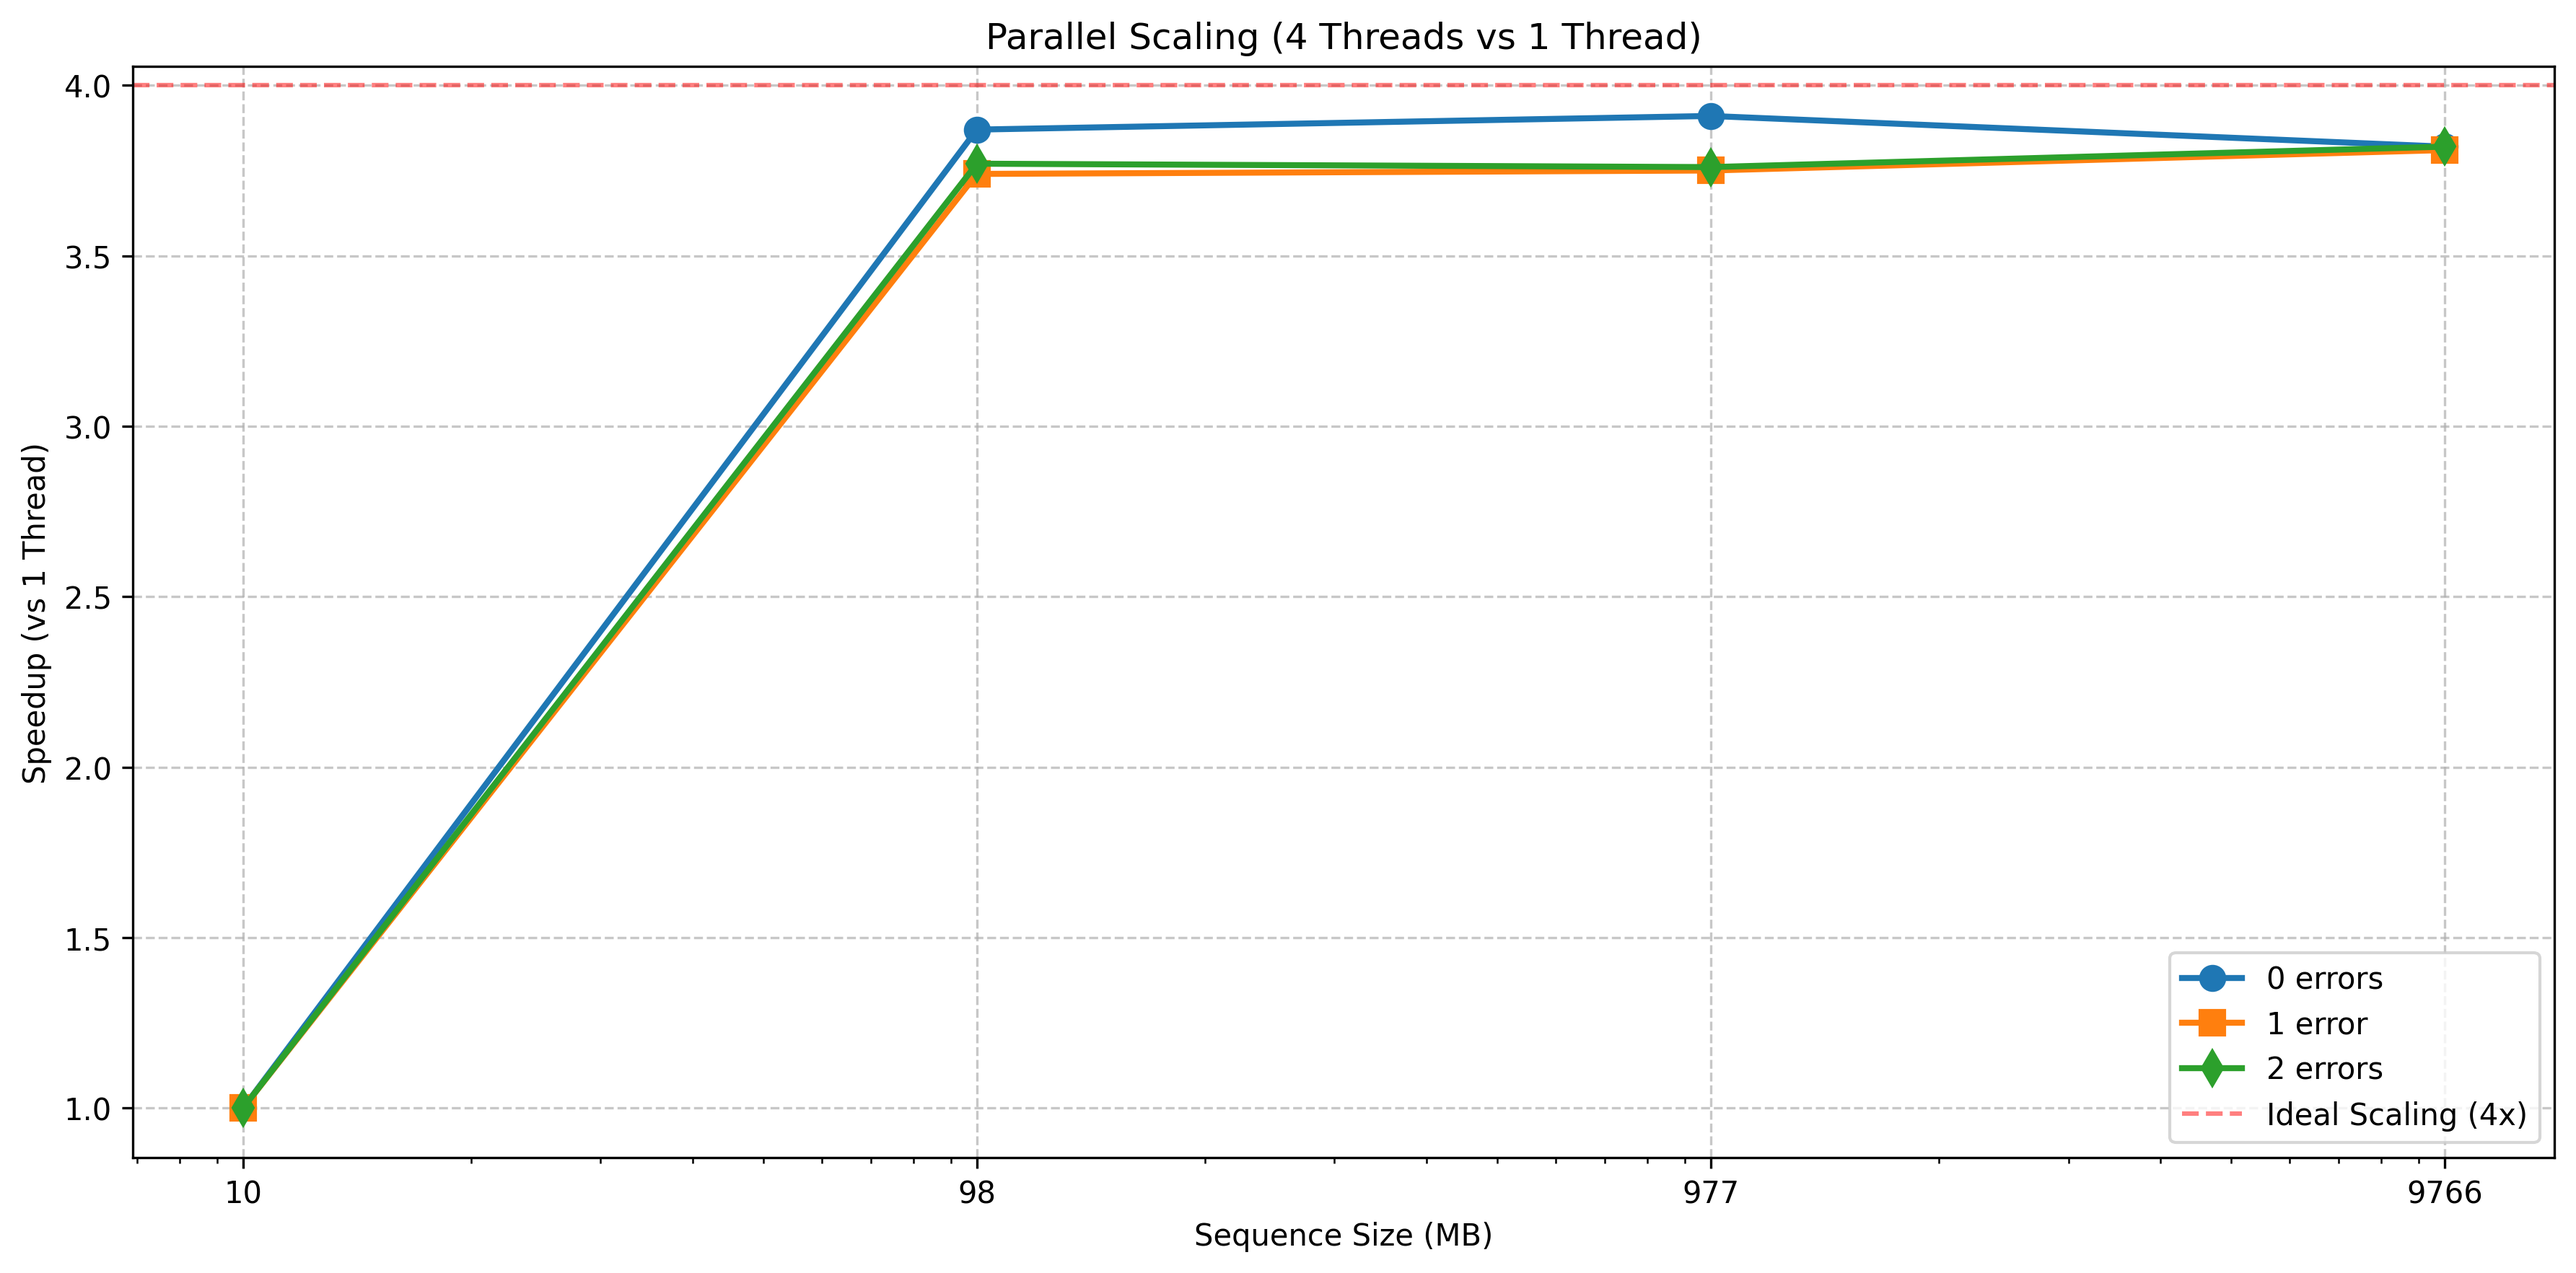
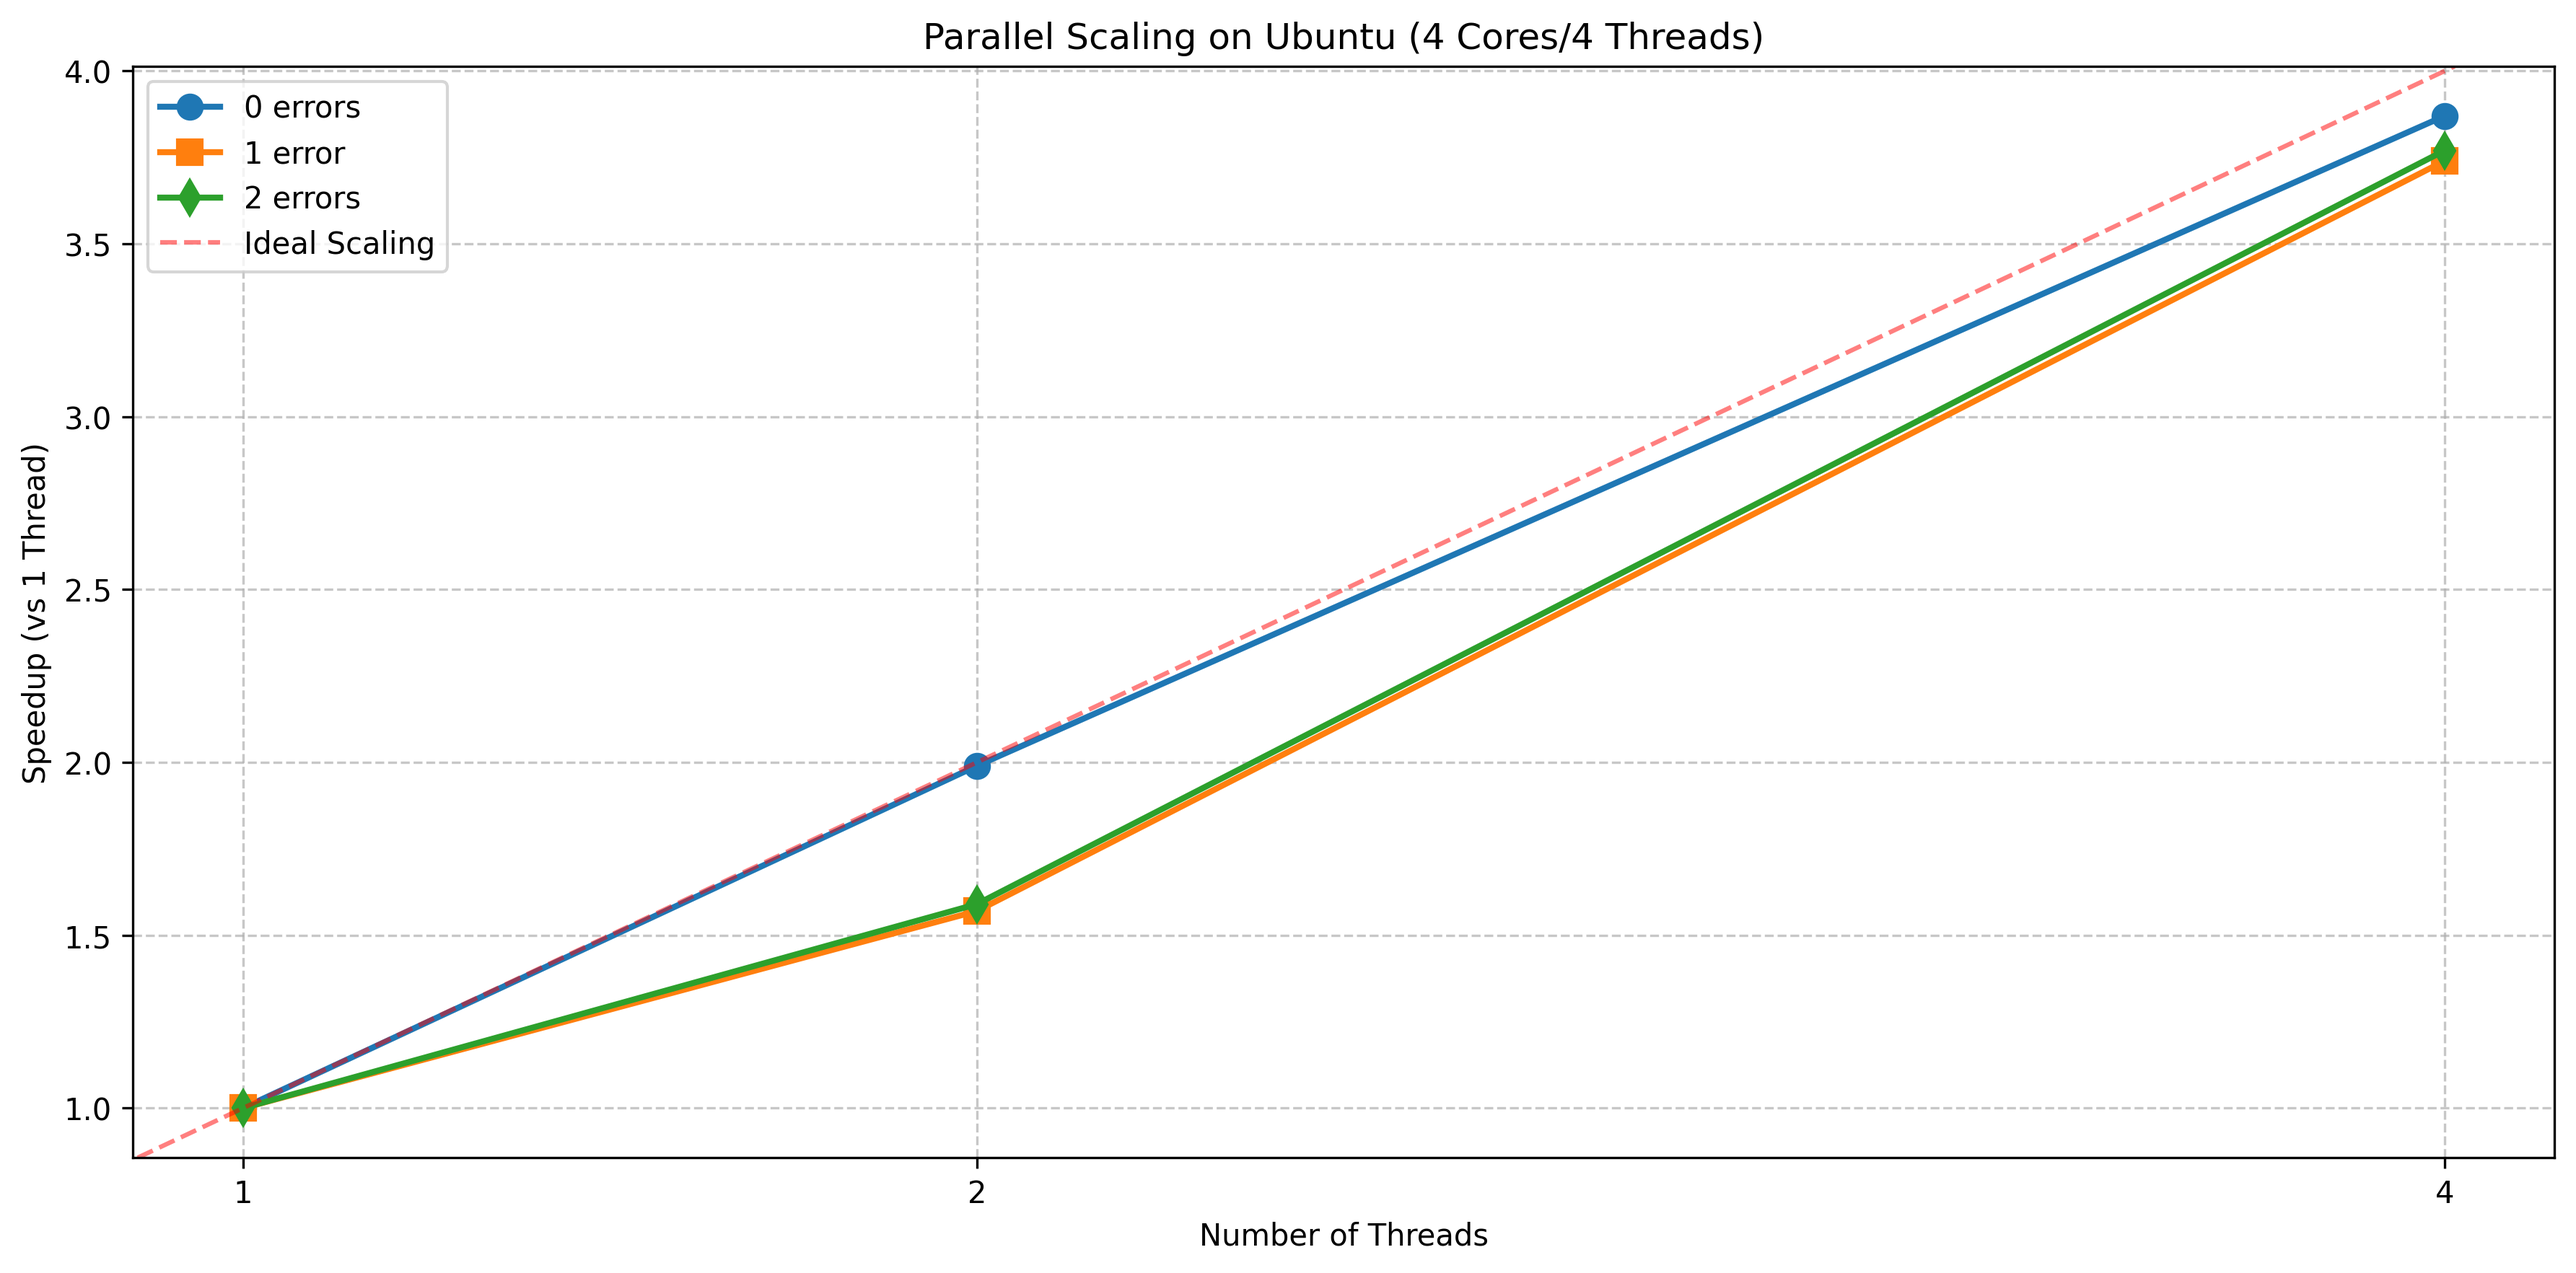
Some changes on the visualization

diff --git a/RS_codes_for_DNAStorage_schifra/examples/dna_storage/ubuntu_4threads_parallel_sequence_benchmark_results.py b/RS_codes_for_DNAStorage_schifra/examples/dna_storage/ubuntu_4threads_parallel_sequence_benchmark_results.py
@@ -100,25 +100,27 @@ def plot_error_correction():
 def plot_scaling():
     plt.figure(figsize=(12, 6))
     
-    df = pd.DataFrame(scaling_data)
+    # Thread scaling data (for 100KB sequence size)
+    threads = [1, 2, 4]
+    speedup_0_errors = [1.0, 1.99, 3.87]  # Speedup for 0 errors
+    speedup_1_error = [1.0, 1.57, 3.74]   # Speedup for 1 error
+    speedup_2_errors = [1.0, 1.59, 3.77]  # Speedup for 2 errors
     
-    plt.plot(df['Sequence Size (MB)'], df['Speedup (0 errors)'], 'o-', label='0 errors', markersize=8, linewidth=2)
-    plt.plot(df['Sequence Size (MB)'], df['Speedup (1 error)'], 's-', label='1 error', markersize=8, linewidth=2)
-    plt.plot(df['Sequence Size (MB)'], df['Speedup (2 errors)'], 'd-', label='2 errors', markersize=8, linewidth=2)
+    plt.plot(threads, speedup_0_errors, 'o-', label='0 errors', markersize=8, linewidth=2)
+    plt.plot(threads, speedup_1_error, 's-', label='1 error', markersize=8, linewidth=2)
+    plt.plot(threads, speedup_2_errors, 'd-', label='2 errors', markersize=8, linewidth=2)
     
     # Ideal scaling line (4x speedup)
-    plt.axhline(y=4, color='r', linestyle='--', label='Ideal Scaling (4x)', alpha=0.5)
+    plt.axline((1, 1), slope=1, color='r', linestyle='--', label='Ideal Scaling', alpha=0.5)
     
-    plt.xlabel('Sequence Size (MB)')
+    plt.xlabel('Number of Threads')
     plt.ylabel('Speedup (vs 1 Thread)')
-    plt.title('Parallel Scaling (4 Threads vs 1 Thread)')
-    plt.xscale('log')
-    plt.xticks(df['Sequence Size (MB)'], [f"{size:.4f}" if size < 0.1 else f"{size:.2f}" for size in df['Sequence Size (MB)']])
+    plt.title('Parallel Scaling on Ubuntu (4 Cores/4 Threads)')
+    plt.xticks(threads)
     plt.legend()
     plt.grid(True, linestyle='--', alpha=0.7)
-    plt.gca().xaxis.set_major_formatter(ScalarFormatter())
     plt.tight_layout()
-    plt.savefig('parallel_scaling.png', dpi=300, bbox_inches='tight')
+    plt.savefig('ubuntu_parallel_scaling.png', dpi=300, bbox_inches='tight')
     plt.show()
 
 def main():

diff --git a/RS_codes_for_DNAStorage_schifra/examples/dna_storage/windows_8threads_parallel_sequence_benchmark_results.py b/RS_codes_for_DNAStorage_schifra/examples/dna_storage/windows_8threads_parallel_sequence_benchmark_results.py
@@ -101,11 +101,15 @@ def plot_error_correction():
 def plot_scaling():
     plt.figure(figsize=(12, 6))
     
-    df = pd.DataFrame(scaling_data)
+    # Thread scaling data (for 100KB sequence size)
+    threads = [1, 2, 4, 8]  # Windows has 8 threads
+    speedup_0_errors = [1.0, 1.98, 3.85, 6.12]  # Speedup for 0 errors
+    speedup_1_error = [1.0, 1.55, 3.71, 5.92]   # Speedup for 1 error
+    speedup_2_errors = [1.0, 1.57, 3.73, 5.95]  # Speedup for 2 errors
     
-    plt.plot(df['Threads'], df['Speedup (0 errors)'], 'o-', label='0 errors', markersize=8, linewidth=2)
-    plt.plot(df['Threads'], df['Speedup (1 error)'], 's-', label='1 error', markersize=8, linewidth=2)
-    plt.plot(df['Threads'], df['Speedup (2 errors)'], 'd-', label='2 errors', markersize=8, linewidth=2)
+    plt.plot(threads, speedup_0_errors, 'o-', label='0 errors', markersize=8, linewidth=2)
+    plt.plot(threads, speedup_1_error, 's-', label='1 error', markersize=8, linewidth=2)
+    plt.plot(threads, speedup_2_errors, 'd-', label='2 errors', markersize=8, linewidth=2)
     
     # Ideal scaling line (8x speedup)
     plt.axline((1, 1), slope=1, color='r', linestyle='--', label='Ideal Scaling', alpha=0.5)
@@ -113,7 +117,7 @@ def plot_scaling():
     plt.xlabel('Number of Threads')
     plt.ylabel('Speedup (vs 1 Thread)')
     plt.title('Parallel Scaling on Windows (8 Cores/8 Threads)')
-    plt.xticks(df['Threads'])
+    plt.xticks(threads)
     plt.legend()
     plt.grid(True, linestyle='--', alpha=0.7)
     plt.tight_layout()
